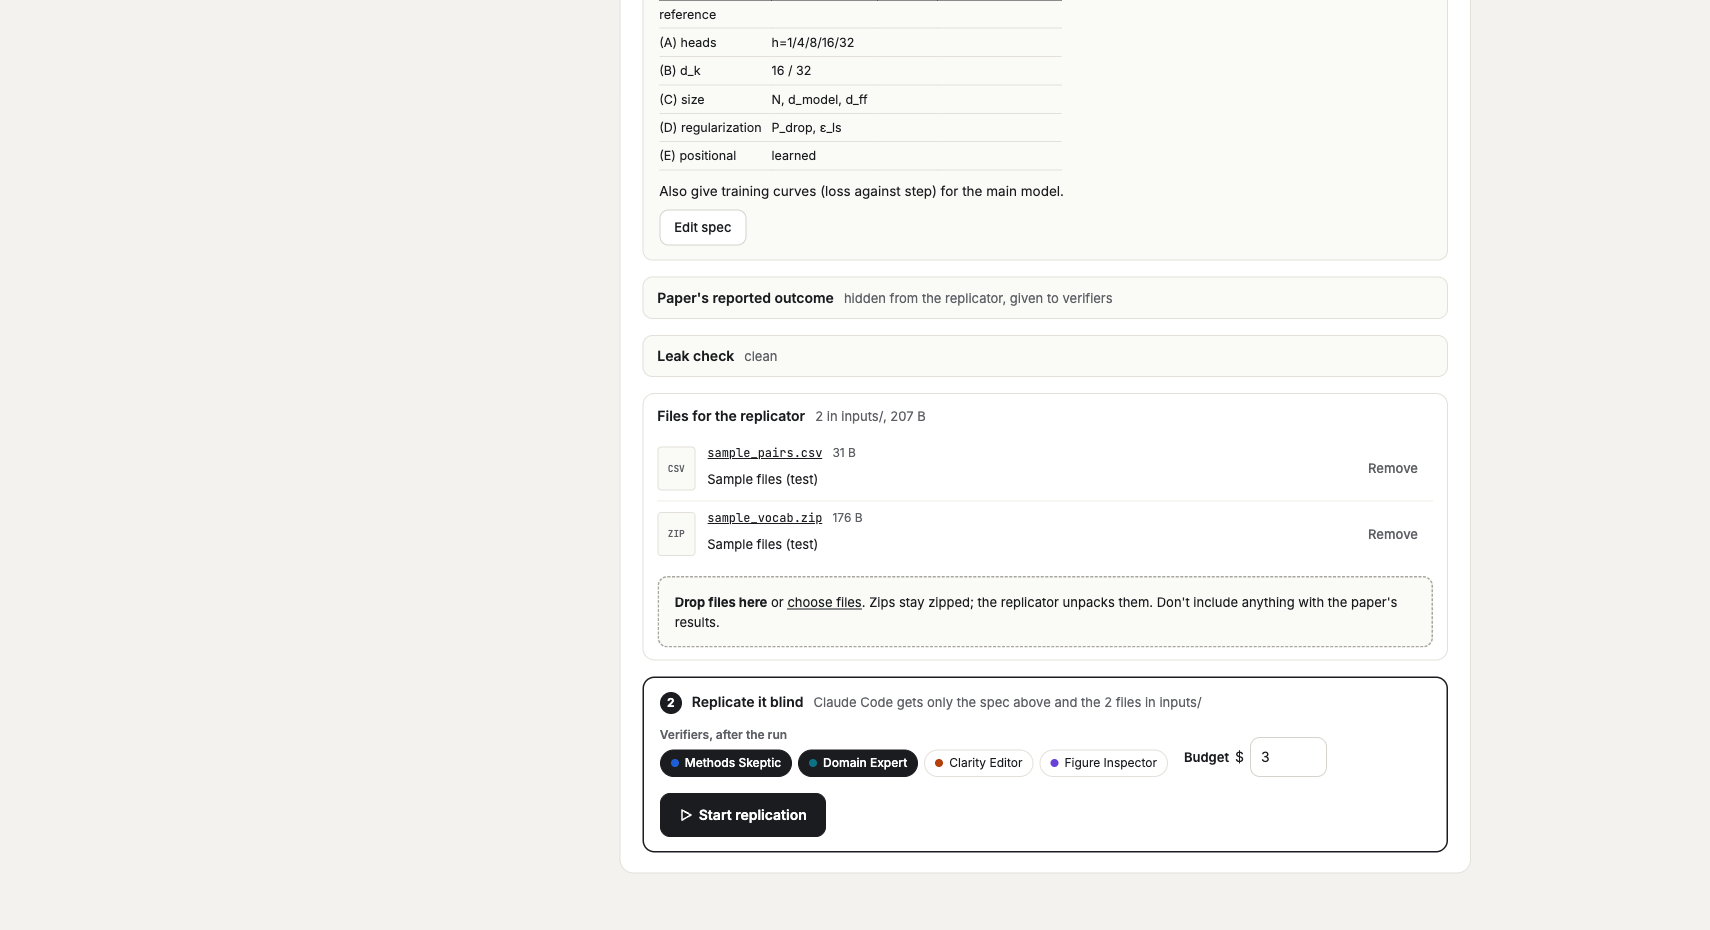
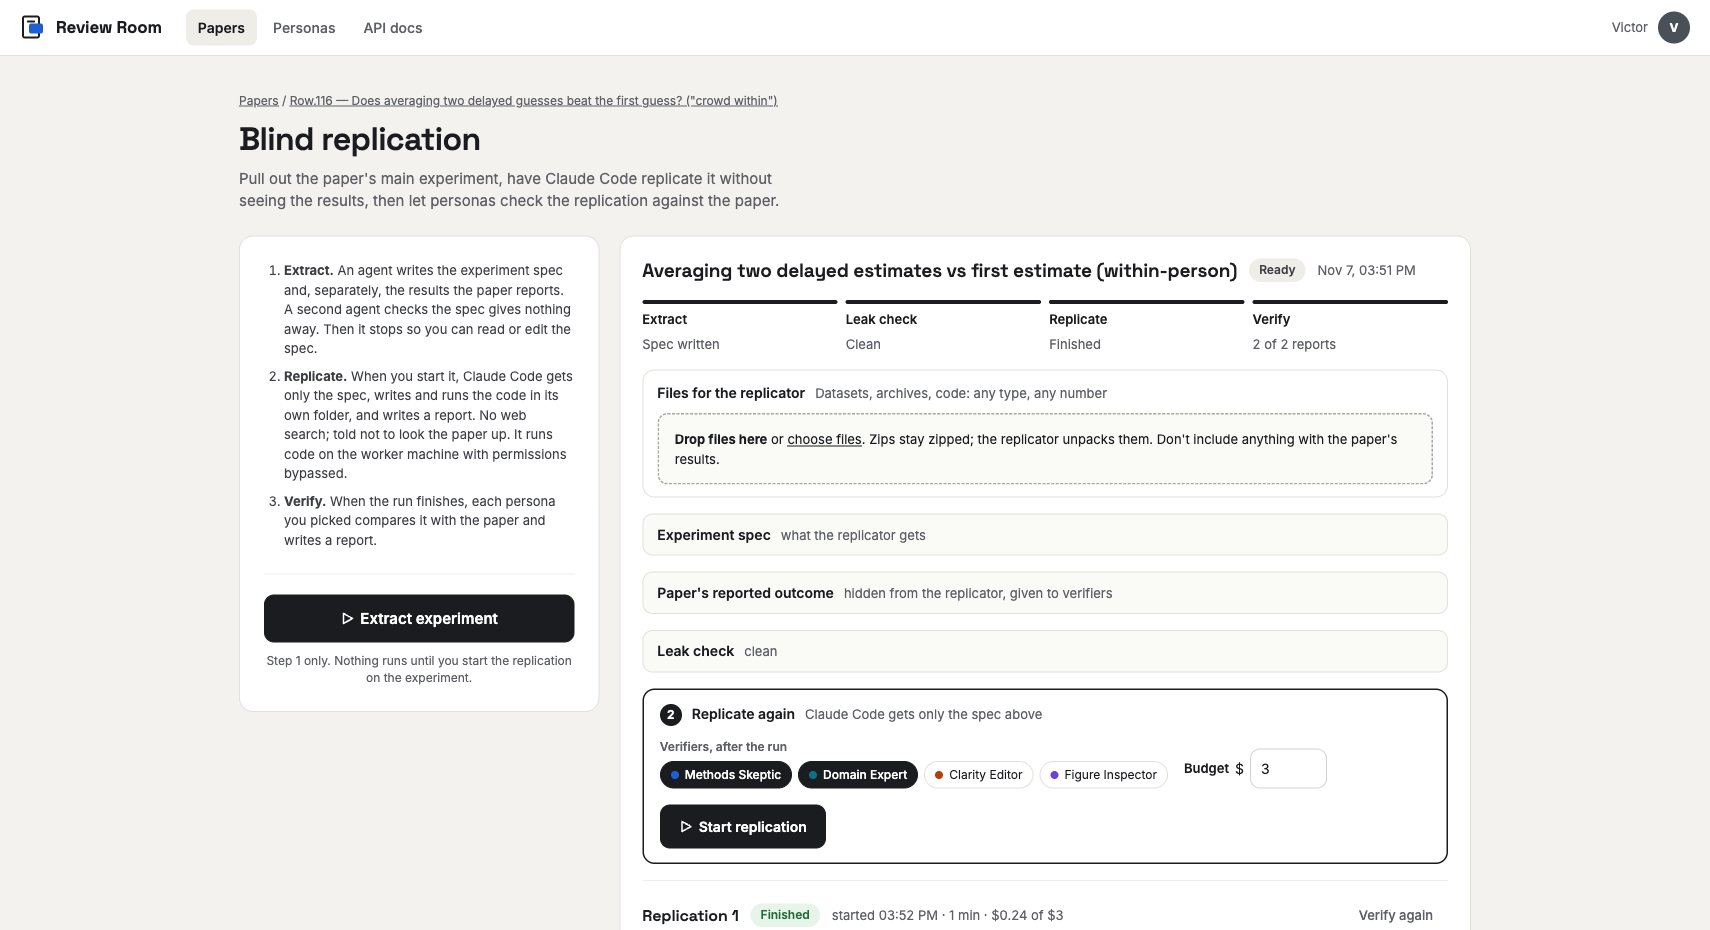
Replicate page: show replicator files near the top; log the first real run

diff --git a/frontend/src/pages/Replicate.tsx b/frontend/src/pages/Replicate.tsx
@@ -429,6 +429,8 @@ function ExperimentCard({ exp, personas, ticks, onChanged }: { exp: Experiment; 
       <Stages exp={exp} />
       {exp.error && <p className="error">{exp.error}</p>}
 
+      {!!exp.spec_md && !busy && !editing && <Attachments exp={exp} onChanged={onChanged} />}
+
       {exp.status === "needs_review" && (
         <div className="callout warn-box">
           <p className="strong">The leak check flagged the spec before it went to the replicator.</p>
@@ -463,8 +465,6 @@ function ExperimentCard({ exp, personas, ticks, onChanged }: { exp: Experiment; 
       {exp.leak_check_md && exp.status !== "needs_review" && <Doc title="Leak check" hint={exp.leak_found ? "leak found" : exp.leak_found === false ? "clean" : ""} md={exp.leak_check_md} />}
 
       {error && <p className="error">{error}</p>}
-      {!!exp.spec_md && !busy && !editing && <Attachments exp={exp} onChanged={onChanged} />}
-
       {canReplicate && !editing && (
         <StartReplication exp={exp} personas={personas} anyway={exp.status === "needs_review"} onStarted={onChanged} />
       )}

diff --git a/docs/session-2026-11-07.md b/docs/session-2026-11-07.md
@@ -170,16 +170,30 @@ worker download and its token, checksum failure, reuse on re-run, the run's reco
 deletion, verifier access, and `inputs/` not being uploaded back. A browser upload through the
 page was also checked. The test files were removed afterwards.
 
+## 11. First real replication
+
+The first end-to-end replication ran on the crowd-within report (started from the page). The
+worker claimed it, Claude Code ran for about a minute and spent $0.24, and both verifiers wrote
+their reports. The result: **not replicated, because the data files were missing.** The spec says
+the data come with the task (`d04.txt` for session 1, `d05.txt` for session 2), but no files
+could be provided yet. The replicator behaved as intended. It made up no data or numbers and
+looked nothing up, it wrote the full analysis as a ready-to-run script (`scripts/analysis.py`),
+and it said plainly in `REPORT.md` that nothing was measured.
+
+This run is why the files feature exists. The *Files for the replicator* section was then moved
+up, under the pipeline stages, because below the long spec it was easy to miss.
+
 ## State at the end of the session
 
 - 44 backend tests pass; the frontend type-checks.
-- Not yet run end to end: a real replication with Claude Code (it needs a person to start it
-  from the Replicate page).
+- One real replication has run end to end (crowd-within report). It stopped for missing data;
+  the next step is to attach `d04.txt` and `d05.txt` and replicate again.
 
 ## Open items
 
-- Run the first real replication on a small, less well-known paper and tune the prompts from
-  what comes back.
+- Attach the crowd-within data and re-run; tune the prompts from what comes back.
+- The extractor should say in the spec which files the replicator will need, so a person knows
+  what to attach before starting.
 - Consider a container per replication job before running untrusted or larger workloads.
 - A worker on a GPU machine for bigger papers.
 - MCP access for outside agents, on top of the existing API.
